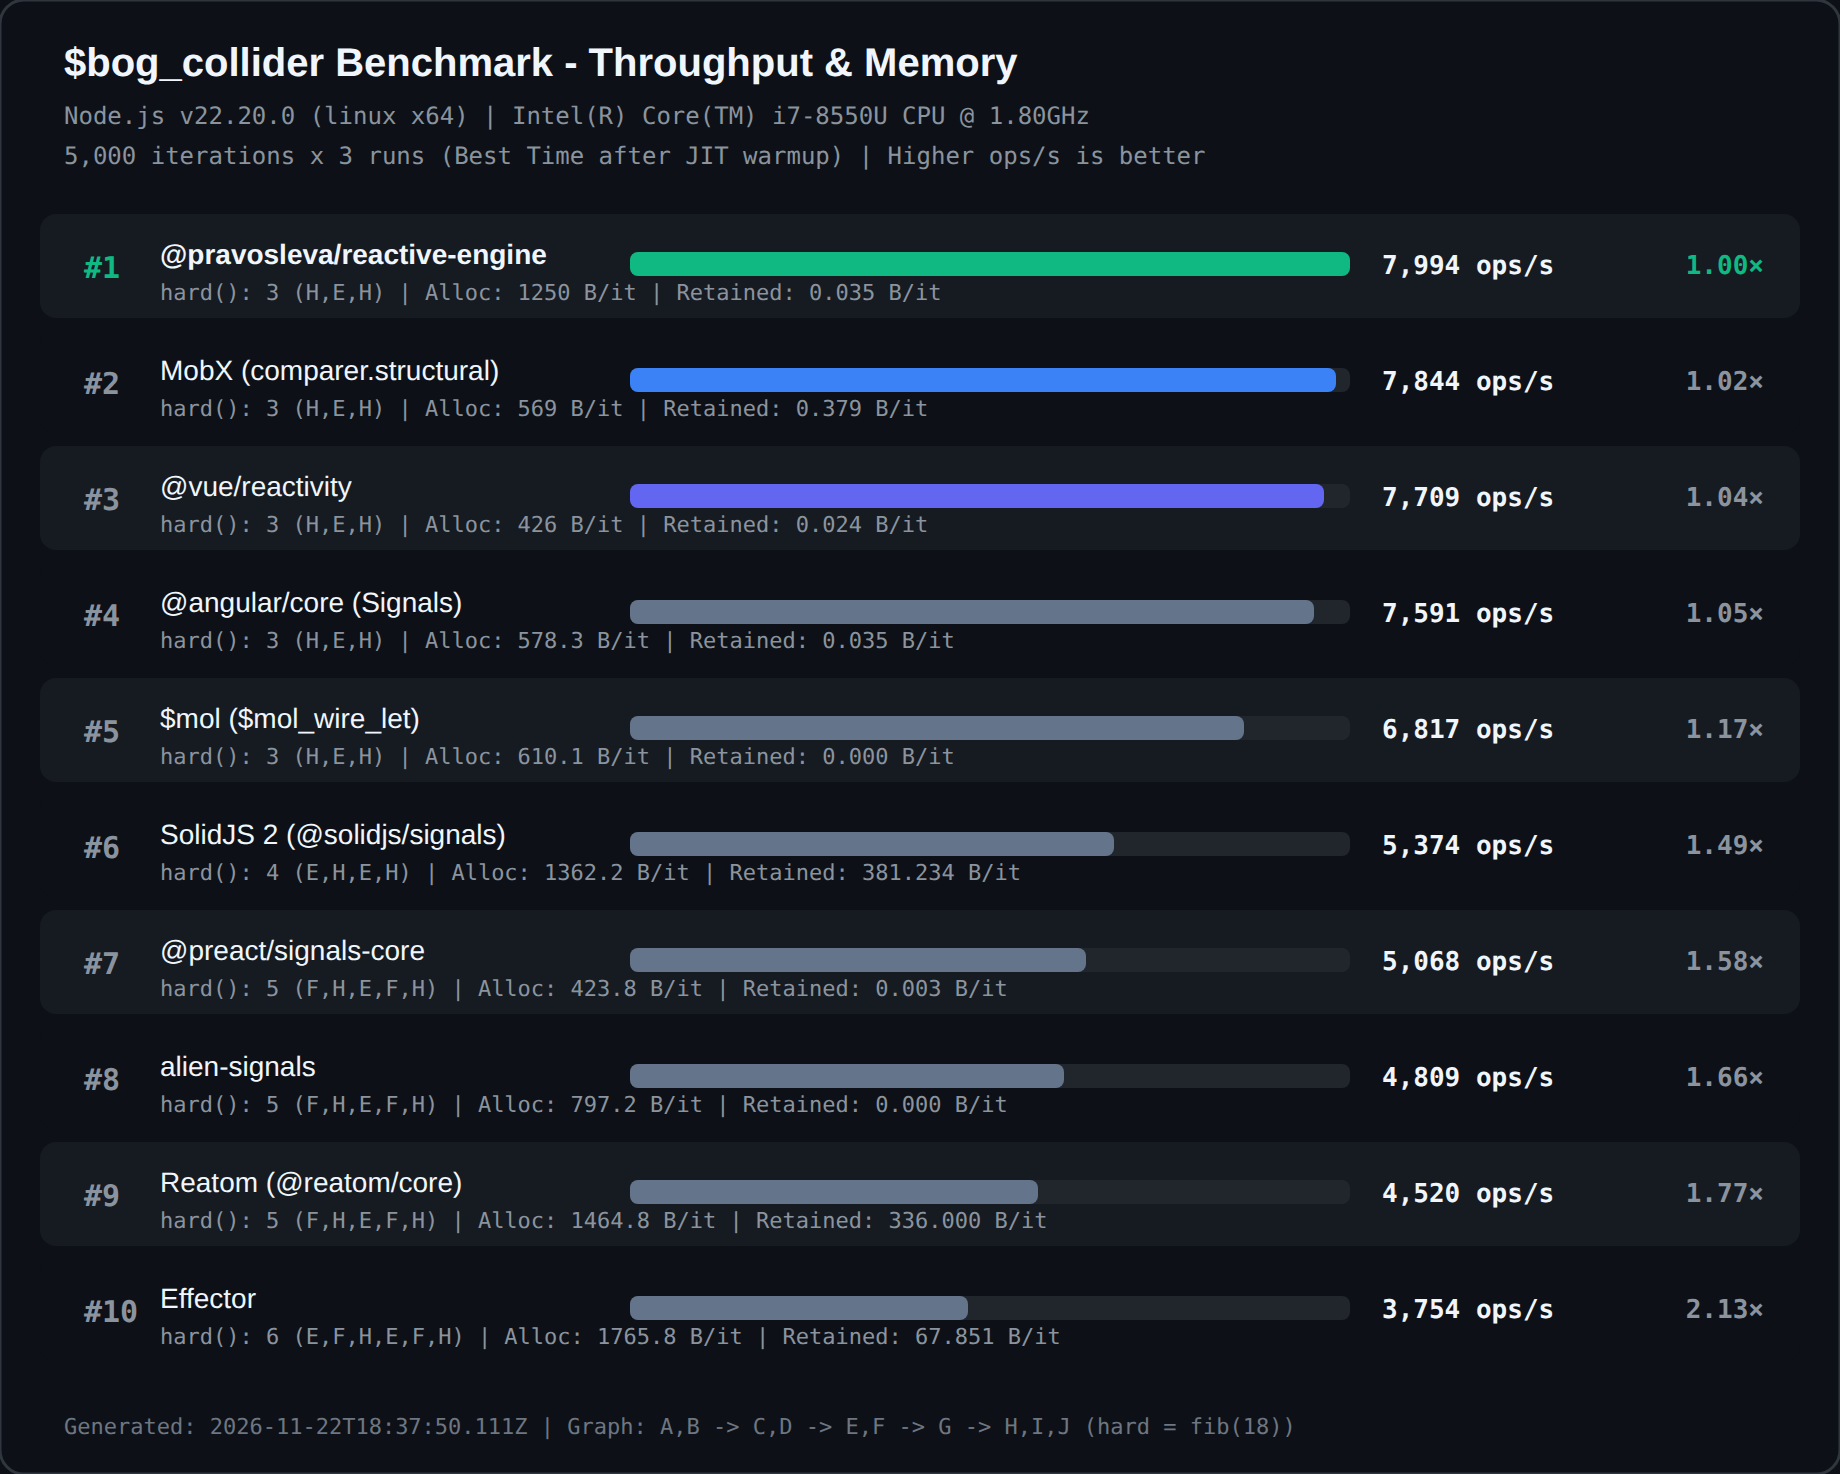
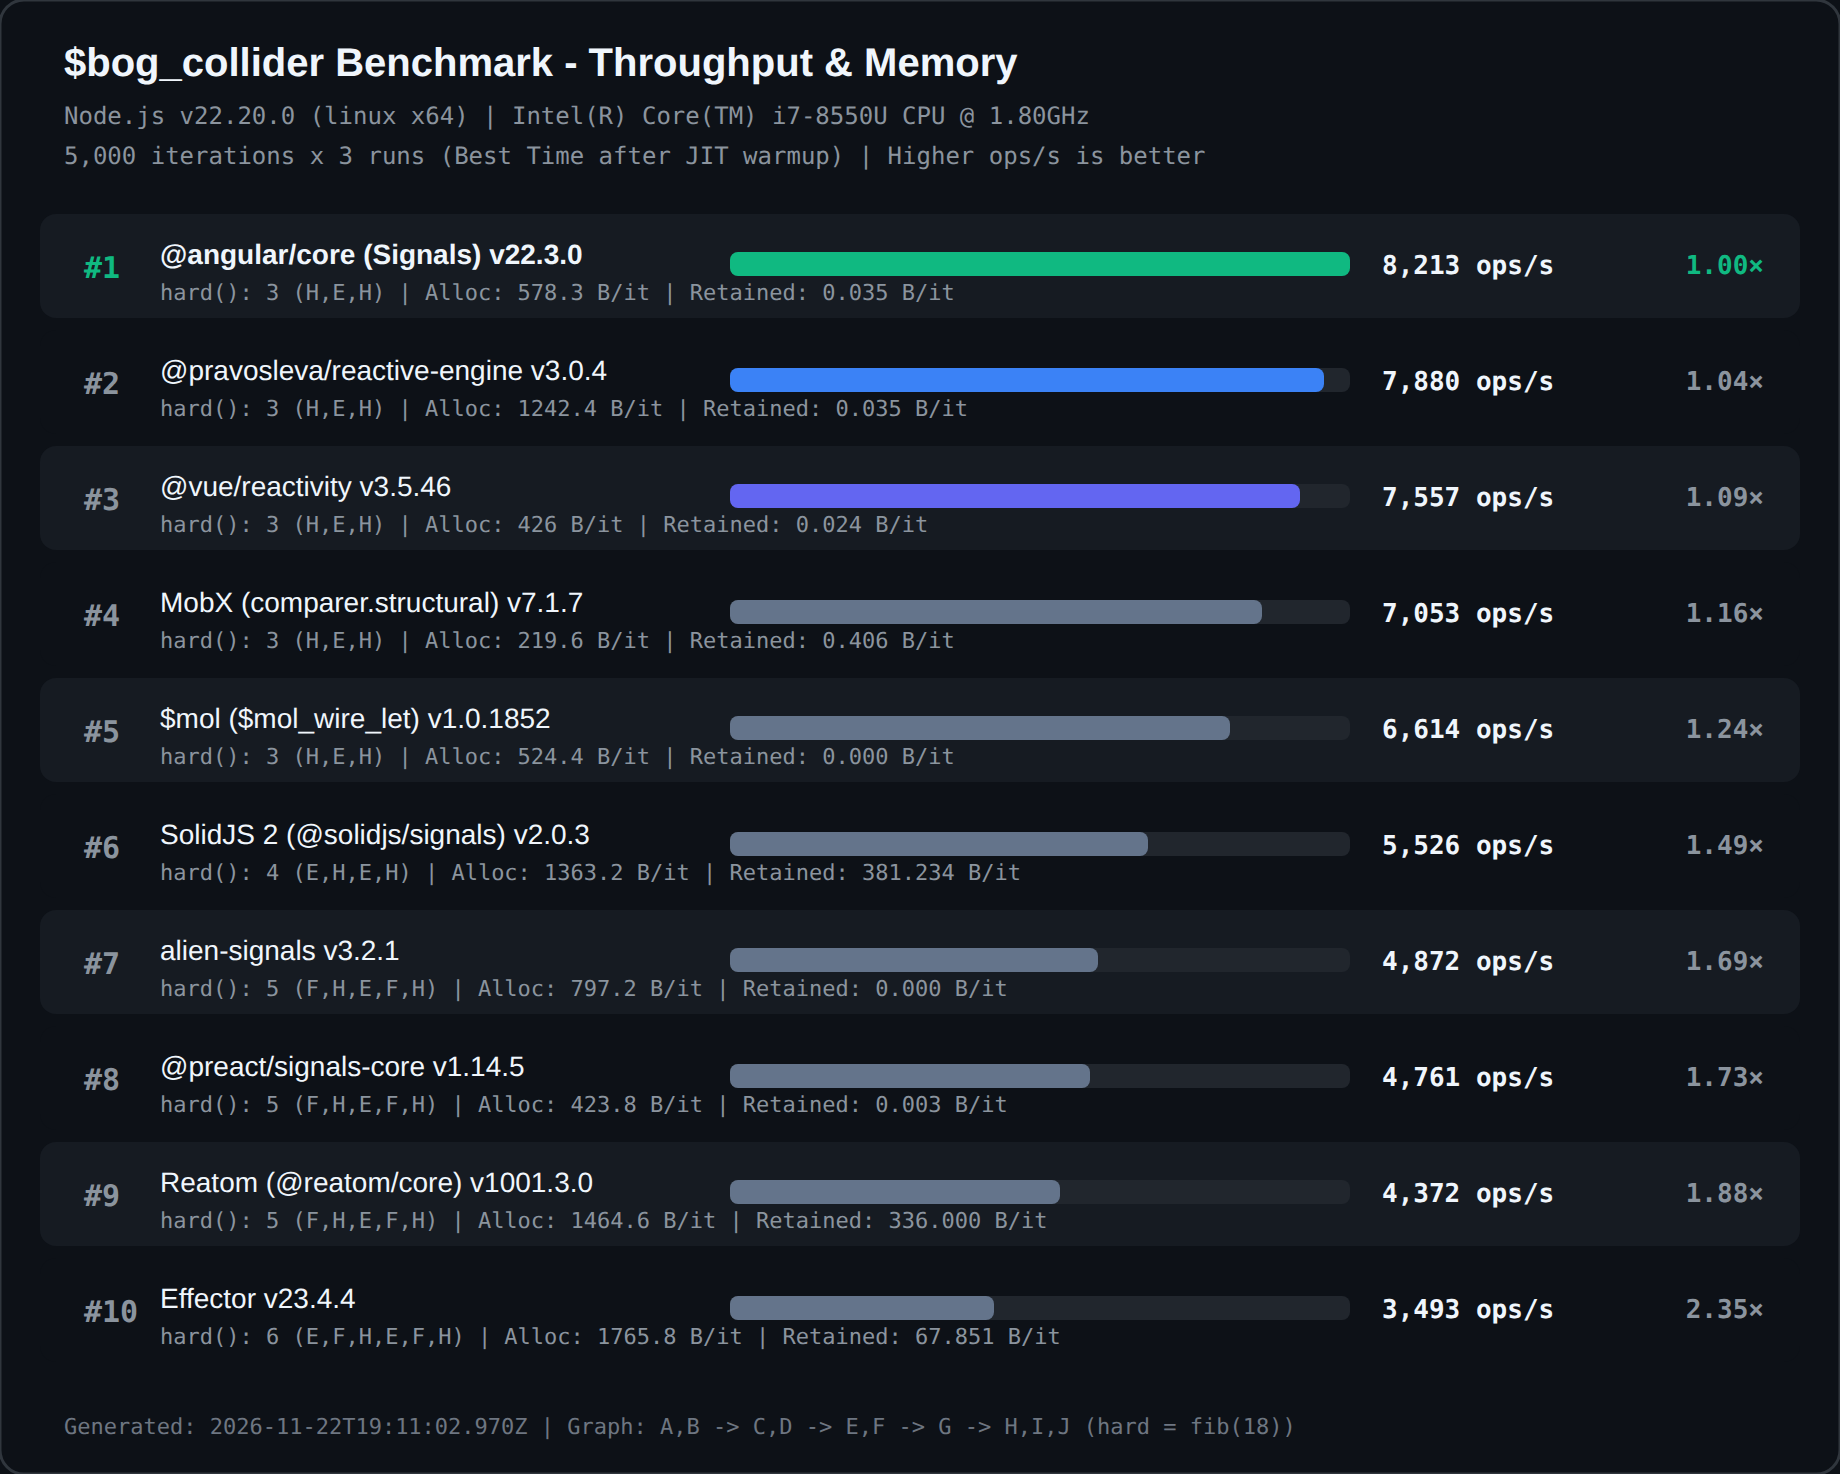
pkg version added to report

diff --git a/README.md b/README.md
@@ -46,7 +46,7 @@
 
 ## Параметры стенда
 
-* **Дата замера:** 22 нояб. 2026 г., 21:37
+* **Дата замера:** 22 нояб. 2026 г., 22:11
 * **Среда:** Node.js `v22.20.0` (`linux x64`)
 * **Процессор:** `Intel(R) Core(TM) i7-8550U CPU @ 1.80GHz`
 * **Нагрузка:** `5 000` двухшаговых итераций × `3` контрольных прогона (учитывается минимальное время после JIT-прогрева)
@@ -56,16 +56,16 @@
 
 | Rank | Engine | `hard()` calls | Best Time (ms) | ops/sec | Alloc (B/iter) | Retained (B/iter) | Ratio |
 | :---: | :--- | :---: | :---: | :---: | :---: | :---: | :---: |
-| 1 | **@pravosleva/reactive-engine** | `3 (H,E,H)` | 625.44 | **7 994** | 1250 | 0.035 | **1.00×** |
-| 2 | MobX (comparer.structural) | `3 (H,E,H)` | 637.46 | 7 844 | 569 | 0.379 | 1.02× |
-| 3 | @vue/reactivity | `3 (H,E,H)` | 648.61 | 7 709 | 426 | 0.024 | 1.04× |
-| 4 | @angular/core (Signals) | `3 (H,E,H)` | 658.67 | 7 591 | 578.3 | 0.035 | 1.05× |
-| 5 | $mol ($mol_wire_let) | `3 (H,E,H)` | 733.46 | 6 817 | 610.1 | 0.000 | 1.17× |
-| 6 | SolidJS 2 (@solidjs/signals) | `4 (E,H,E,H)` | 930.43 | 5 374 | 1362.2 | 381.234 | 1.49× |
-| 7 | @preact/signals-core | `5 (F,H,E,F,H)` | 986.50 | 5 068 | 423.8 | 0.003 | 1.58× |
-| 8 | alien-signals | `5 (F,H,E,F,H)` | 1039.73 | 4 809 | 797.2 | 0.000 | 1.66× |
-| 9 | Reatom (@reatom/core) | `5 (F,H,E,F,H)` | 1106.22 | 4 520 | 1464.8 | 336.000 | 1.77× |
-| 10 | Effector | `6 (E,F,H,E,F,H)` | 1331.76 | 3 754 | 1765.8 | 67.851 | 2.13× |
+| 1 | **@angular/core (Signals) `v22.3.0`** | `3 (H,E,H)` | 608.77 | **8 213** | 578.3 | 0.035 | **1.00×** |
+| 2 | @pravosleva/reactive-engine `v3.0.4` | `3 (H,E,H)` | 634.53 | 7 880 | 1242.4 | 0.035 | 1.04× |
+| 3 | @vue/reactivity `v3.5.46` | `3 (H,E,H)` | 661.66 | 7 557 | 426 | 0.024 | 1.09× |
+| 4 | MobX (comparer.structural) `v7.1.7` | `3 (H,E,H)` | 708.96 | 7 053 | 219.6 | 0.406 | 1.16× |
+| 5 | $mol ($mol_wire_let) `v1.0.1852` | `3 (H,E,H)` | 755.95 | 6 614 | 524.4 | 0.000 | 1.24× |
+| 6 | SolidJS 2 (@solidjs/signals) `v2.0.3` | `4 (E,H,E,H)` | 904.85 | 5 526 | 1363.2 | 381.234 | 1.49× |
+| 7 | alien-signals `v3.2.1` | `5 (F,H,E,F,H)` | 1026.21 | 4 872 | 797.2 | 0.000 | 1.69× |
+| 8 | @preact/signals-core `v1.14.5` | `5 (F,H,E,F,H)` | 1050.30 | 4 761 | 423.8 | 0.003 | 1.73× |
+| 9 | Reatom (@reatom/core) `v1001.3.0` | `5 (F,H,E,F,H)` | 1143.52 | 4 372 | 1464.6 | 336.000 | 1.88× |
+| 10 | Effector `v23.4.4` | `6 (E,F,H,E,F,H)` | 1431.39 | 3 493 | 1765.8 | 67.851 | 2.35× |
 
 ## Легенда колонок
 
